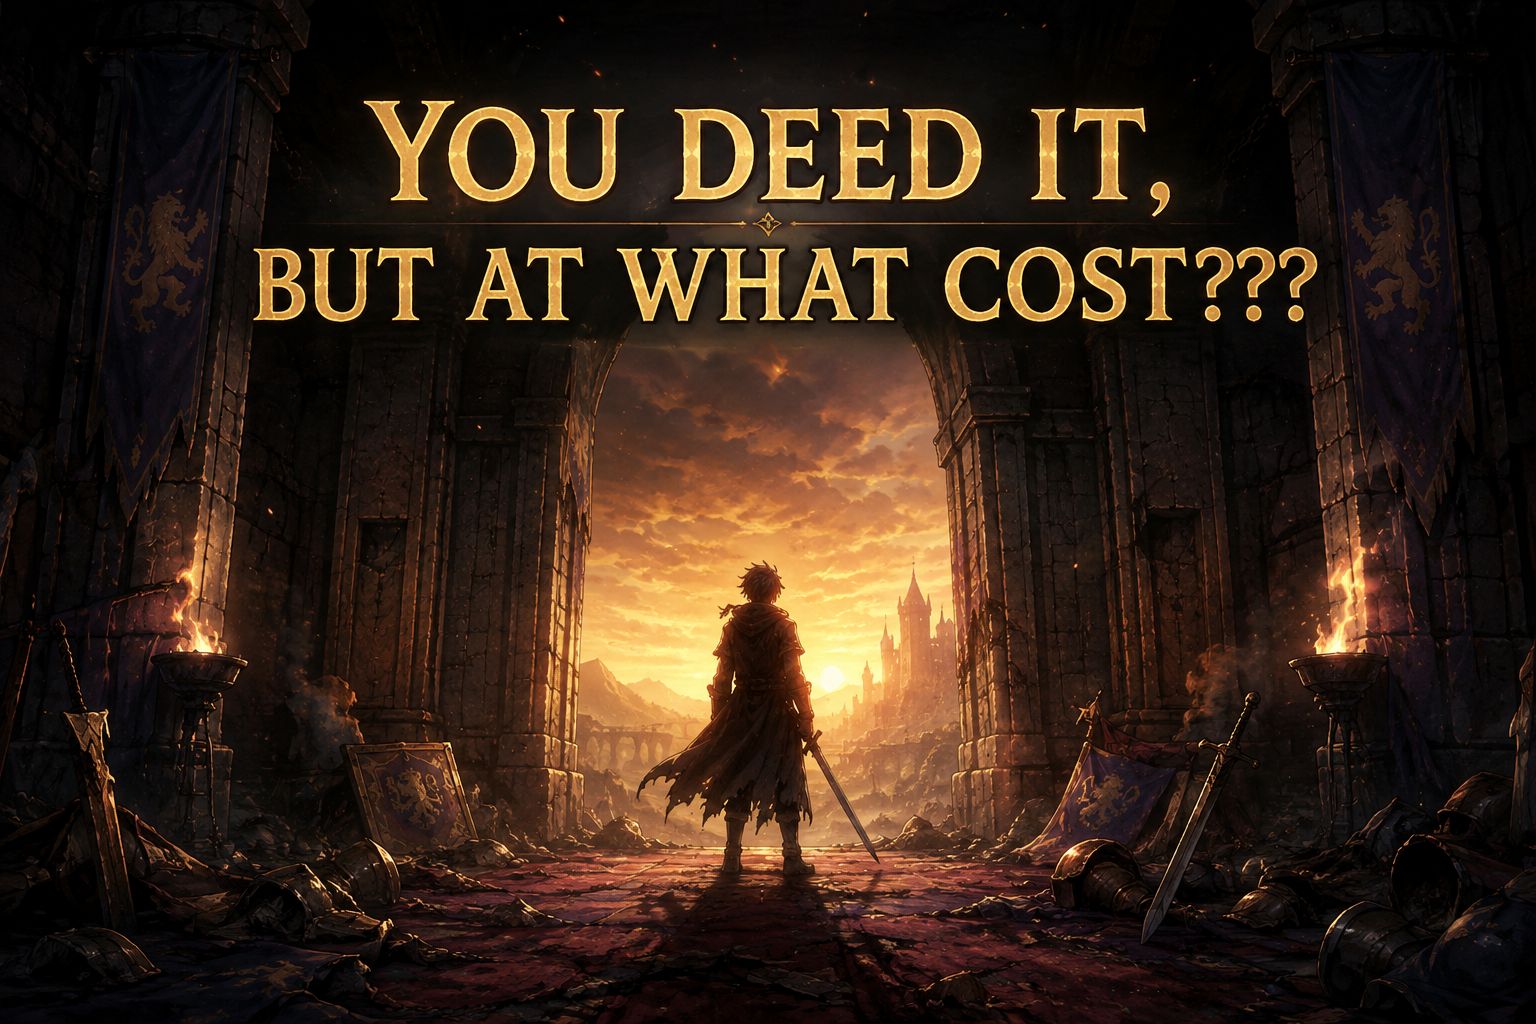
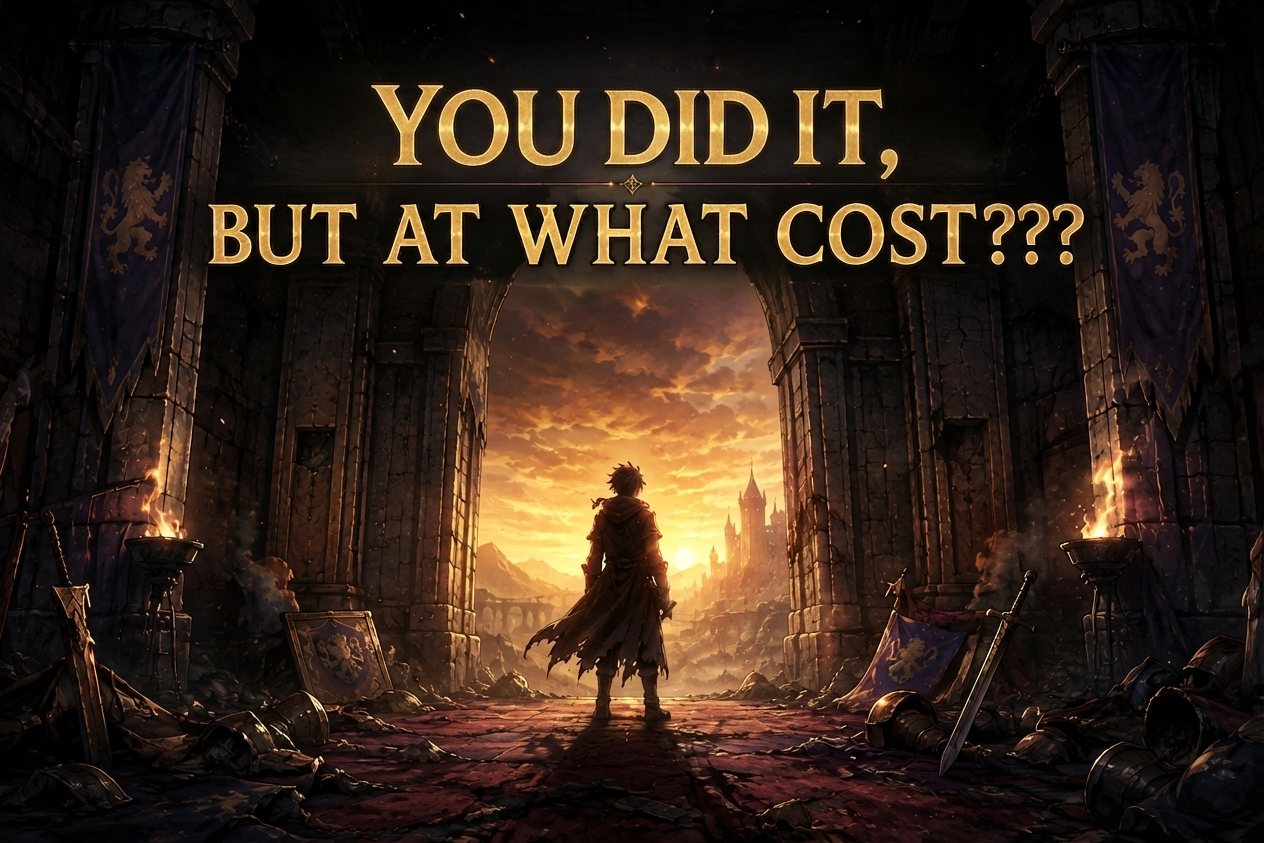
dsjf

diff --git a/menu1/dungeon.py b/menu1/dungeon.py
@@ -4,6 +4,7 @@ from enemy import Enemy
 from consts import *
 import random as rnd
 import time
+import consts
 
 class Dungeon: 
 
@@ -276,6 +277,7 @@ class Dungeon:
                     pygame.event.pump()
                     self.clock.tick(60)
                 self.show_lost_screen()
+                #עוצרת מיידית את הפונקציה ומחזירה None
                 return
 
             if self.check_pass_level(maze,playerCords):
@@ -291,13 +293,13 @@ class Dungeon:
             self.clock.tick(8)
 
 
-    #לא מחזיר ערך
+    #לא מחזיר ערך, מציג את מסך ההפסד
     def  show_lost_screen(self) -> None:
         self.screen.blit(self.lostImage, (0,0))
         pygame.display.flip()
         time.sleep(2)
 
-    # לא מחזיר ערך
+    # לא מחזיר ערךת מציג את מסך הניצחון
     def  show_won_screen(self) -> None:
         self.screen.blit(self.wonImage, (0,0))
         pygame.display.flip()

diff --git a/menu1/consts.py b/menu1/consts.py
@@ -14,3 +14,5 @@ ENEMY_IMAGE = "images/enemys/monster1.png"
 BOSS_IMAGE = "images/enemys/monster2.png"
 ENEMY_BACKGROUND = "images/enemys/EnemyBackground.png"
 ANSWER_BACKGROUND = "images/enemys/AnswerBackground.png"
+
+

diff --git a/menu1/enemy.py b/menu1/enemy.py
@@ -26,7 +26,6 @@ class Enemy:
             self.__x = x
             self.__y = y
 
-
             self.__enemySize = enemySizes
             self.bossImage = pygame.transform.scale(bossImage, self.__enemySize)
 
